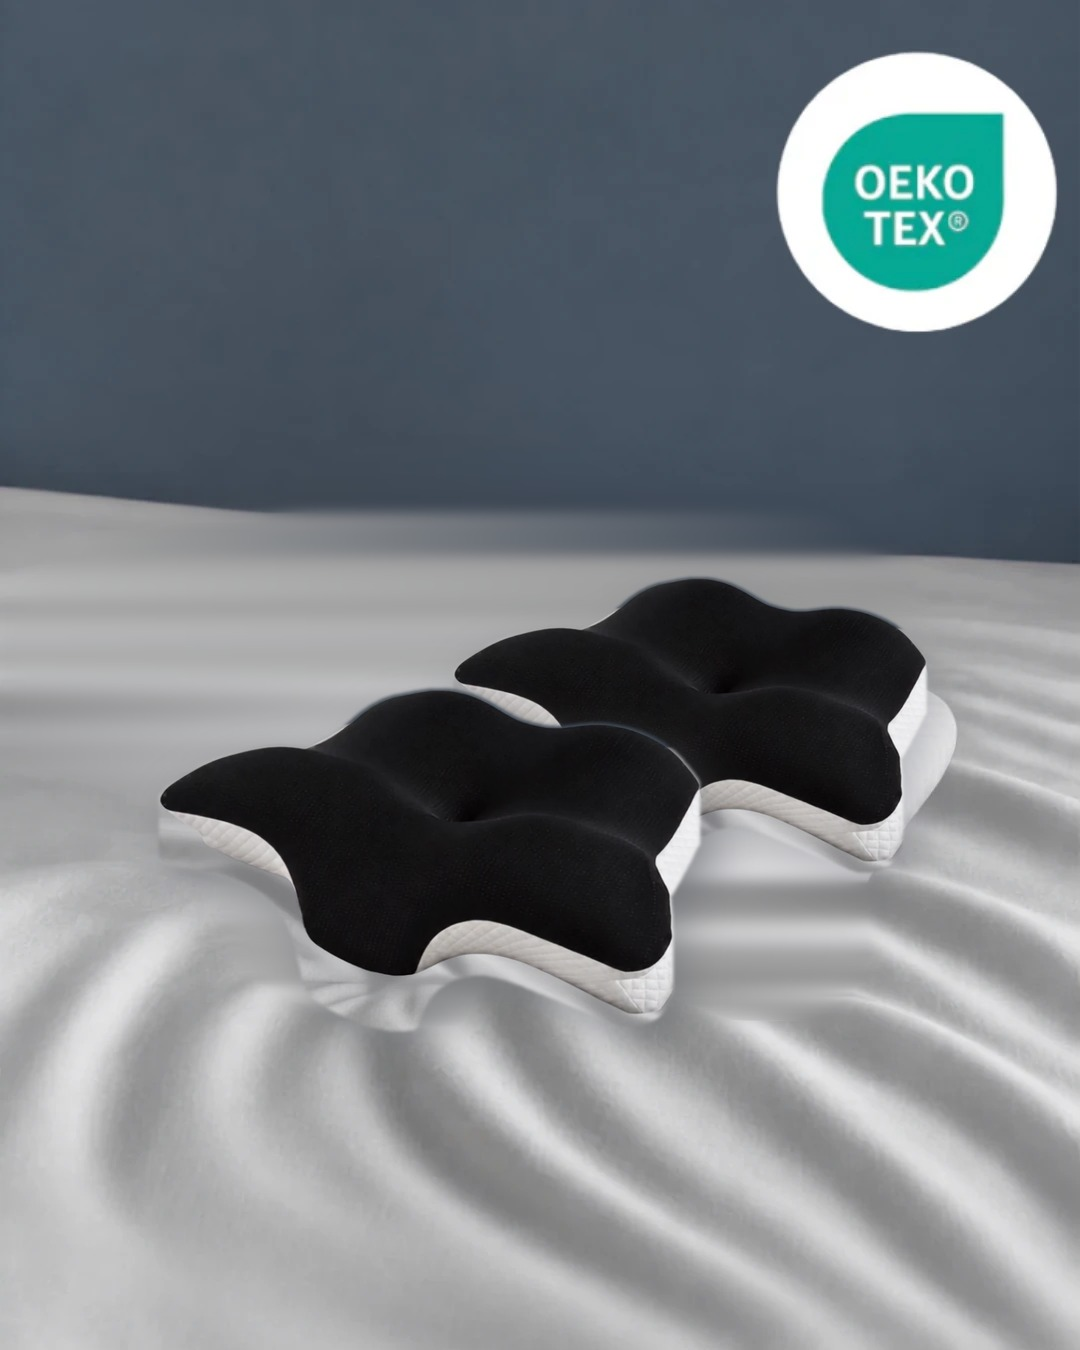
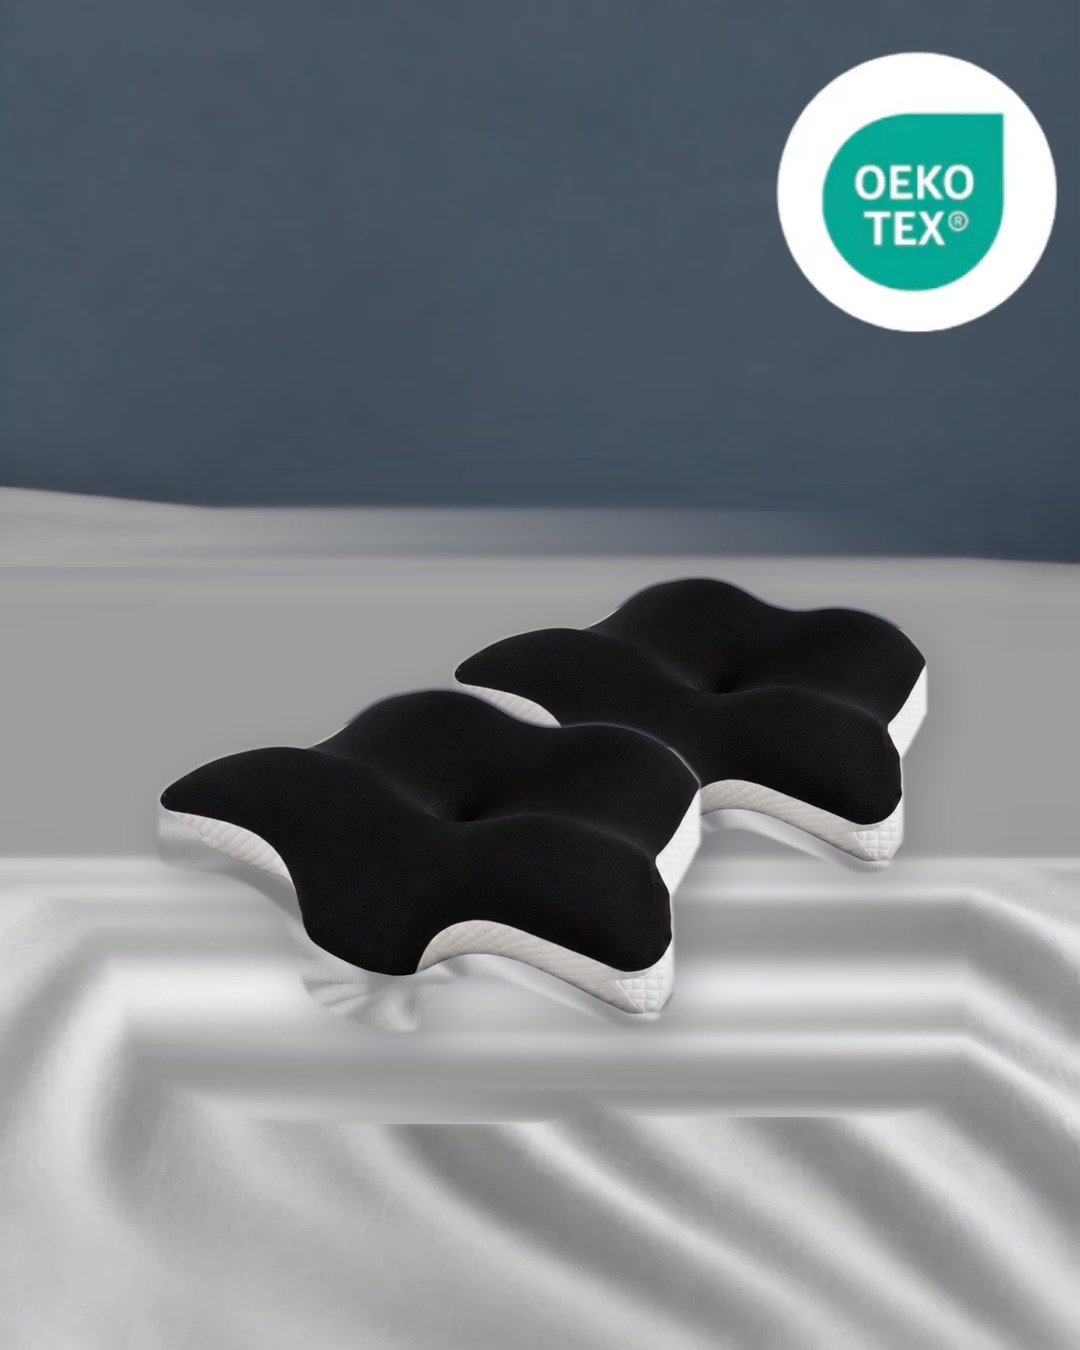
Add a facing-pair layout for the 2-pack shot
make_2pack.py now takes a layout argument: "facing" mirrors the right-hand
pillow so the two cradles turn toward each other, keeping one shadow
direction; the default stays the staggered one-behind-the-other version.

Two fixes to the plate repair found while building it:

- The paint-out mask is dilated directionally. The white base reaches far
  further right than the foam, and anything left behind ghosts once the
  replacement pillows move; but dilating upward into the wall/bed horizon
  made the row-wise repair straighten that curved edge.
- The tone match samples bed rows only. Using the whole ring around the hole
  pulled dark wall pixels into the reference and over-darkened the patch.

Borrowing satin grain from the clean bed was tried and reverted: stretching
that band turns the folds into vertical streaks.

Claude-Session: https://claude.ai/code/session_01B2YyvbY6PjzGNFzdNsu8EK

diff --git a/product-images/make_2pack.py b/product-images/make_2pack.py
@@ -35,9 +35,16 @@ cut = cut.crop(cut_mask.getbbox())
 
 # ---- 2. paint the pillow out of the plate ----------------------------------
 # A wider mask, so the pillow's soft shadow goes too.
-wide = cut_mask.point(lambda v: 255 if v > 8 else 0).filter(ImageFilter.MaxFilter(9))
-for _ in range(5):
-    wide = wide.filter(ImageFilter.MaxFilter(9))
+# Directional. The white base reaches well to the sides and below the foam,
+# so the hole has to be generous there or a ghost of it survives. Upward it
+# must stay tight: dilating into the wall/bed horizon makes the row-wise
+# repair replace that curved edge with a straight one.
+base = cut_mask.point(lambda v: 255 if v > 8 else 0)
+wide = base.copy()
+for dx in range(-120, 121, 6):
+    for dy in range(0, 121, 6):
+        wide = ImageChops.lighter(wide, ImageChops.offset(base, dx, dy))
+wide = ImageChops.lighter(wide, ImageChops.offset(base, 0, -12))
 hole = np.asarray(wide).astype(bool)
 
 plate = arr.copy()
@@ -54,11 +61,35 @@ for y in range(H):
         plate[y, :, c] = np.interp(xs, xs[good], arr[y, good, c])
 
 plate_img = Image.fromarray(plate.astype(np.uint8), 'RGB')
-# Interpolating row by row leaves horizontal banding; a mild blur inside the
-# repaired area only, so the untouched bed keeps its detail.
-soft = plate_img.filter(ImageFilter.GaussianBlur(6))
-blend = Image.fromarray((hole * 255).astype(np.uint8), 'L').filter(ImageFilter.GaussianBlur(14))
+# Row interpolation leaves faint horizontal banding; a mild blur confined to
+# the repair. The pillows are then placed to cover most of it, so only a
+# narrow band near the horizon is left showing.
+soft = plate_img.filter(ImageFilter.GaussianBlur(4))
+blend = Image.fromarray((hole * 255).astype(np.uint8), 'L').filter(ImageFilter.GaussianBlur(45))
 plate_img = Image.composite(soft, plate_img, blend)
+
+# The fill samples each row's clean ends, which sit outside the pillow's soft
+# shadow, so the repair comes back brighter than the bed it replaces and reads
+# as a pale rectangle. Match it back down, feathered by the same mask.
+rep = np.asarray(plate_img).astype(np.float64)
+wgt = np.asarray(blend).astype(np.float64)[:, :, None] / 255.0
+# Sample bed rows only. The hole reaches up into the wall, and including
+# those dark pixels in the reference drags the correction far too low.
+bed_rows = np.zeros((H, W), dtype=bool)
+bed_rows[620:1340, :] = True
+inside = (wgt[:, :, 0] > 0.55) & bed_rows
+ring = np.zeros((H, W), dtype=bool)
+grow = np.asarray(Image.fromarray((hole * 255).astype(np.uint8), 'L')
+                  .filter(ImageFilter.MaxFilter(9))).astype(float) > 128
+for _ in range(1):
+    ring |= grow & ~hole & bed_rows
+if inside.any() and ring.any():
+    factor = float(arr[ring].mean() / max(rep[inside].mean(), 1e-6))
+    factor = min(max(factor, 0.80), 1.05)
+    rep = rep * (1 - wgt) + rep * wgt * factor
+    plate_img = Image.fromarray(np.clip(rep, 0, 255).astype(np.uint8), 'RGB')
+    print("repair tone matched by x%.3f" % factor)
+
 plate_img.save('_plate.jpg', quality=90)
 
 # ---- 3. place two pillows --------------------------------------------------
@@ -74,10 +105,26 @@ def place(canvas, pillow, scale, cx, bottom, shadow=0.45):
     canvas.paste(p, (x, y), p)
     return canvas
 
-out = plate_img
-out = place(out, cut, 0.56, 690, 880, shadow=0.40)   # back pillow, further away
-out = place(out, cut, 0.64, 430, 1035, shadow=0.48)  # front pillow
+import sys
+from PIL import ImageOps
 
-out.save('pilo-2pack.png')
-out.convert('RGB').save('pilo-2pack.jpg', quality=92)
-print("written", out.size)
+MODE = sys.argv[1] if len(sys.argv) > 1 else 'stagger'
+
+if MODE == 'facing':
+    # A mirrored pair, level with each other. The shadow direction stays the
+    # same for both so the scene keeps one light source even though the right
+    # pillow is flipped.
+    mirrored = ImageOps.mirror(cut)
+    out = plate_img
+    out = place(out, mirrored, 0.62, 752, 985, shadow=0.44)
+    out = place(out, cut, 0.62, 332, 1000, shadow=0.46)
+    name = 'pilo-2pack-facing'
+else:
+    out = plate_img
+    out = place(out, cut, 0.56, 690, 880, shadow=0.40)   # back pillow, further away
+    out = place(out, cut, 0.64, 430, 1035, shadow=0.48)  # front pillow
+    name = 'pilo-2pack'
+
+out.save(name + '.png')
+out.convert('RGB').save(name + '.jpg', quality=92)
+print("written", name, out.size)

diff --git a/product-images/README.md b/product-images/README.md
@@ -1,7 +1,10 @@
 # Pilo 1.0 — 2-pack product shot
 
-`pilo-2pack.png` / `.jpg` — 1080 × 1350 (4:5, matching the other product photos),
-built from `pilo-1pack-source.webp` by `make_2pack.py`.
+Two layouts, both 1080 × 1350 (4:5, matching the other product photos), built from
+`pilo-1pack-source.webp` by `make_2pack.py`:
+
+- `pilo-2pack-facing.*` — a mirrored pair facing each other (`python3 make_2pack.py facing`)
+- `pilo-2pack.*` — one behind the other, staggered (`python3 make_2pack.py`)
 
 ## How it was made
 
@@ -16,16 +19,29 @@ it ran off the edge. Instead:
 2. **Paint the pillow out of the plate.** Row-wise interpolation across the gap, which
    works because the bed is smooth satin, then a mild blur confined to the repaired area
    so the untouched bed keeps its detail.
-3. **Place two copies back** at 0.64 and 0.56 scale with soft contact shadows, the smaller
-   one further back.
+3. **Place two copies back** with soft contact shadows. The facing layout mirrors the
+   right-hand one so the two contoured cradles turn toward each other, and keeps the
+   shadow direction the same for both so the scene still has one light source.
+
+The paint-out mask is dilated directionally — generously sideways and downward, barely
+upward. The white base reaches much further right than the foam does, and anything left
+behind shows as a ghost; but dilating up into the wall/bed horizon makes the row-wise
+repair replace that curved edge with a straight one.
+
+The repair is then tone-matched back down, sampling bed rows only. Sampling the whole
+ring around the hole pulls dark wall pixels into the reference and over-darkens the patch.
 
 The OEKO-TEX badge is part of the original plate and is untouched.
 
 ## Honest limits
 
-The repaired bed is softer than the original in the area where the pillow used to be.
-At product-card size it does not read, but at full screen you can see it if you look.
-A real photograph of two pillows will always beat this — treat it as a stopgap.
+The repaired bed is flatter and slightly greyer than the original where the pillow used
+to be — row interpolation gets the colour and gradient right but cannot reproduce satin
+folds. It passes as soft depth-of-field falloff at card size; at full screen you can see
+it. Borrowing grain from the clean bed lower down was tried and made it worse: stretching
+that band turns the folds into vertical streaks.
+
+A real photograph of two pillows beats this. Treat it as a stopgap.
 
 Re-run after changing the source or the composition:
 
